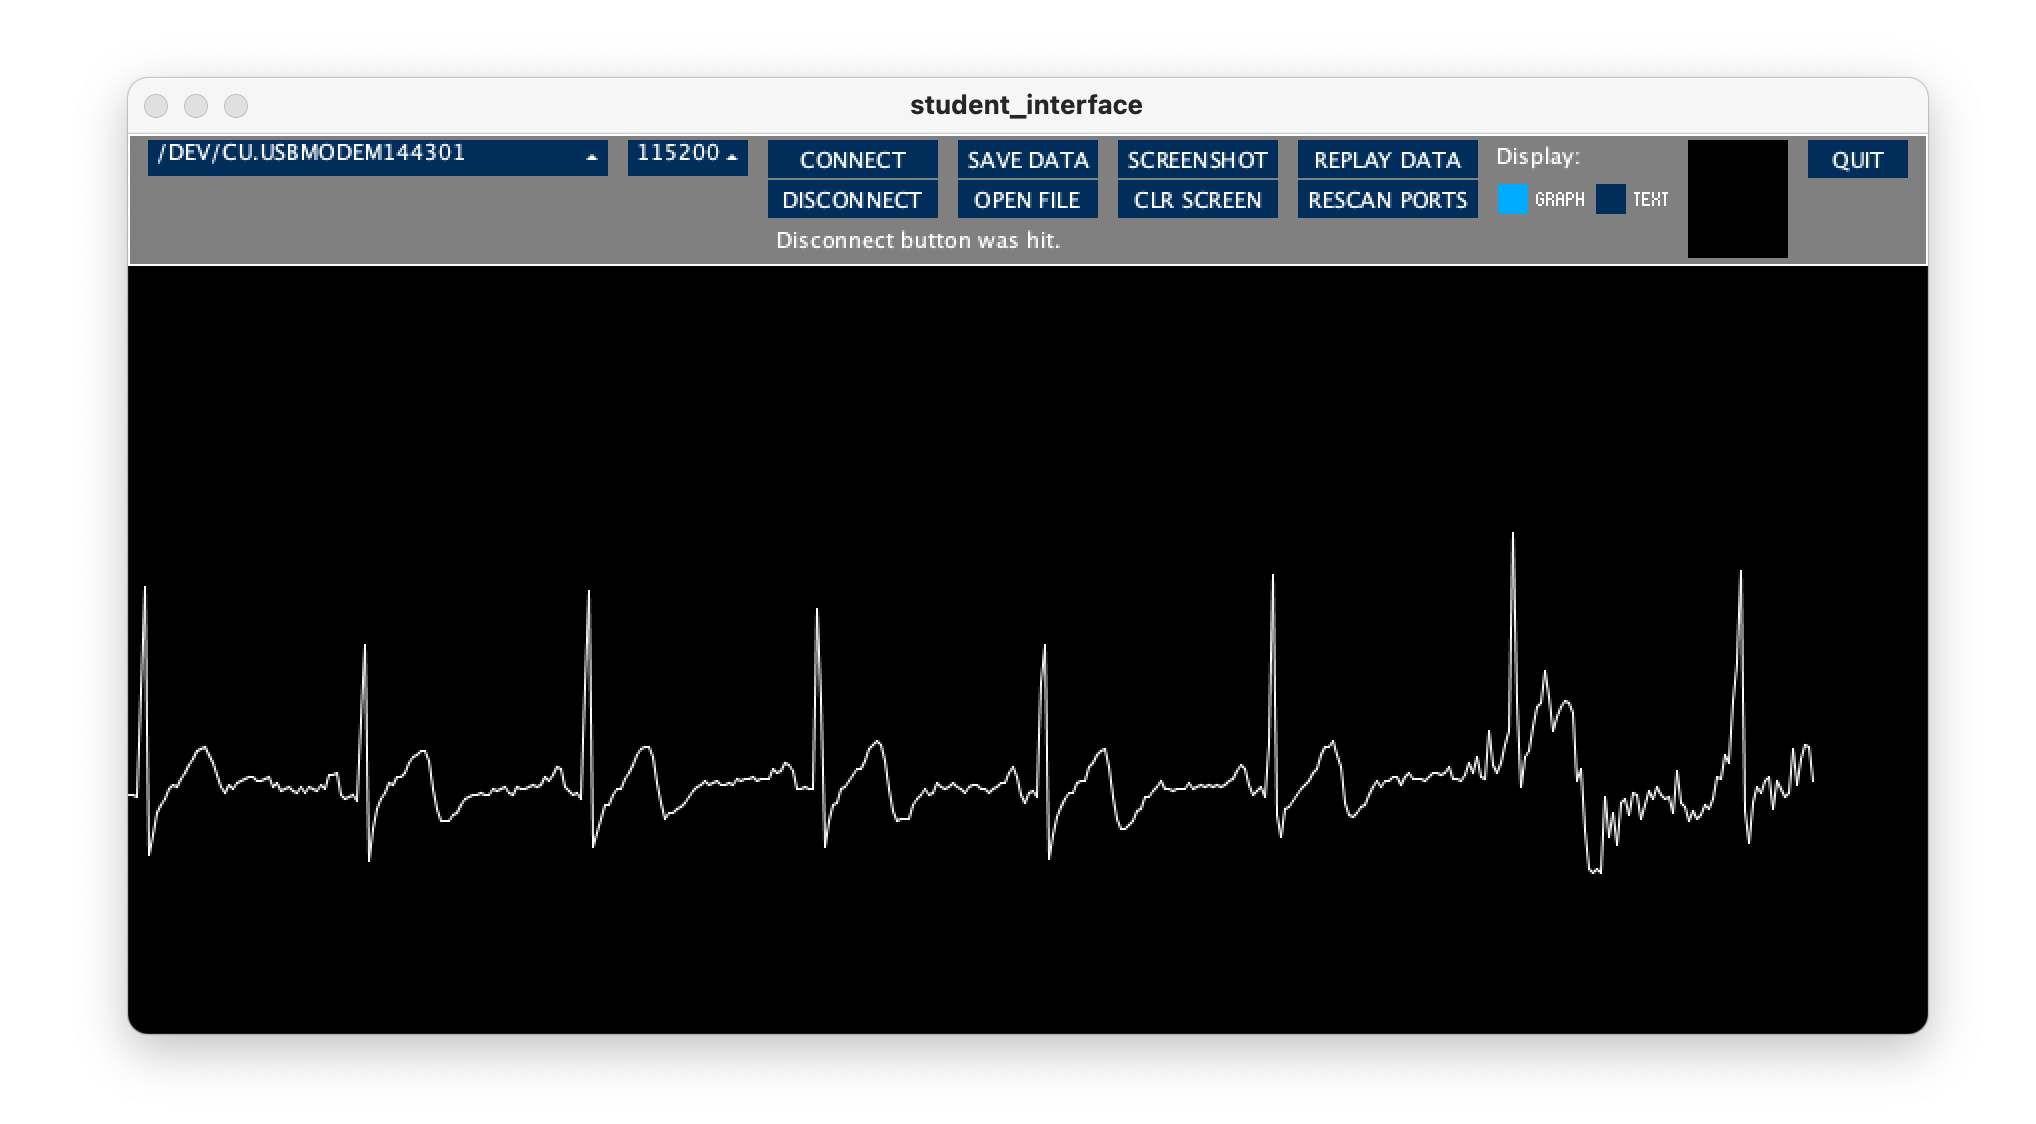
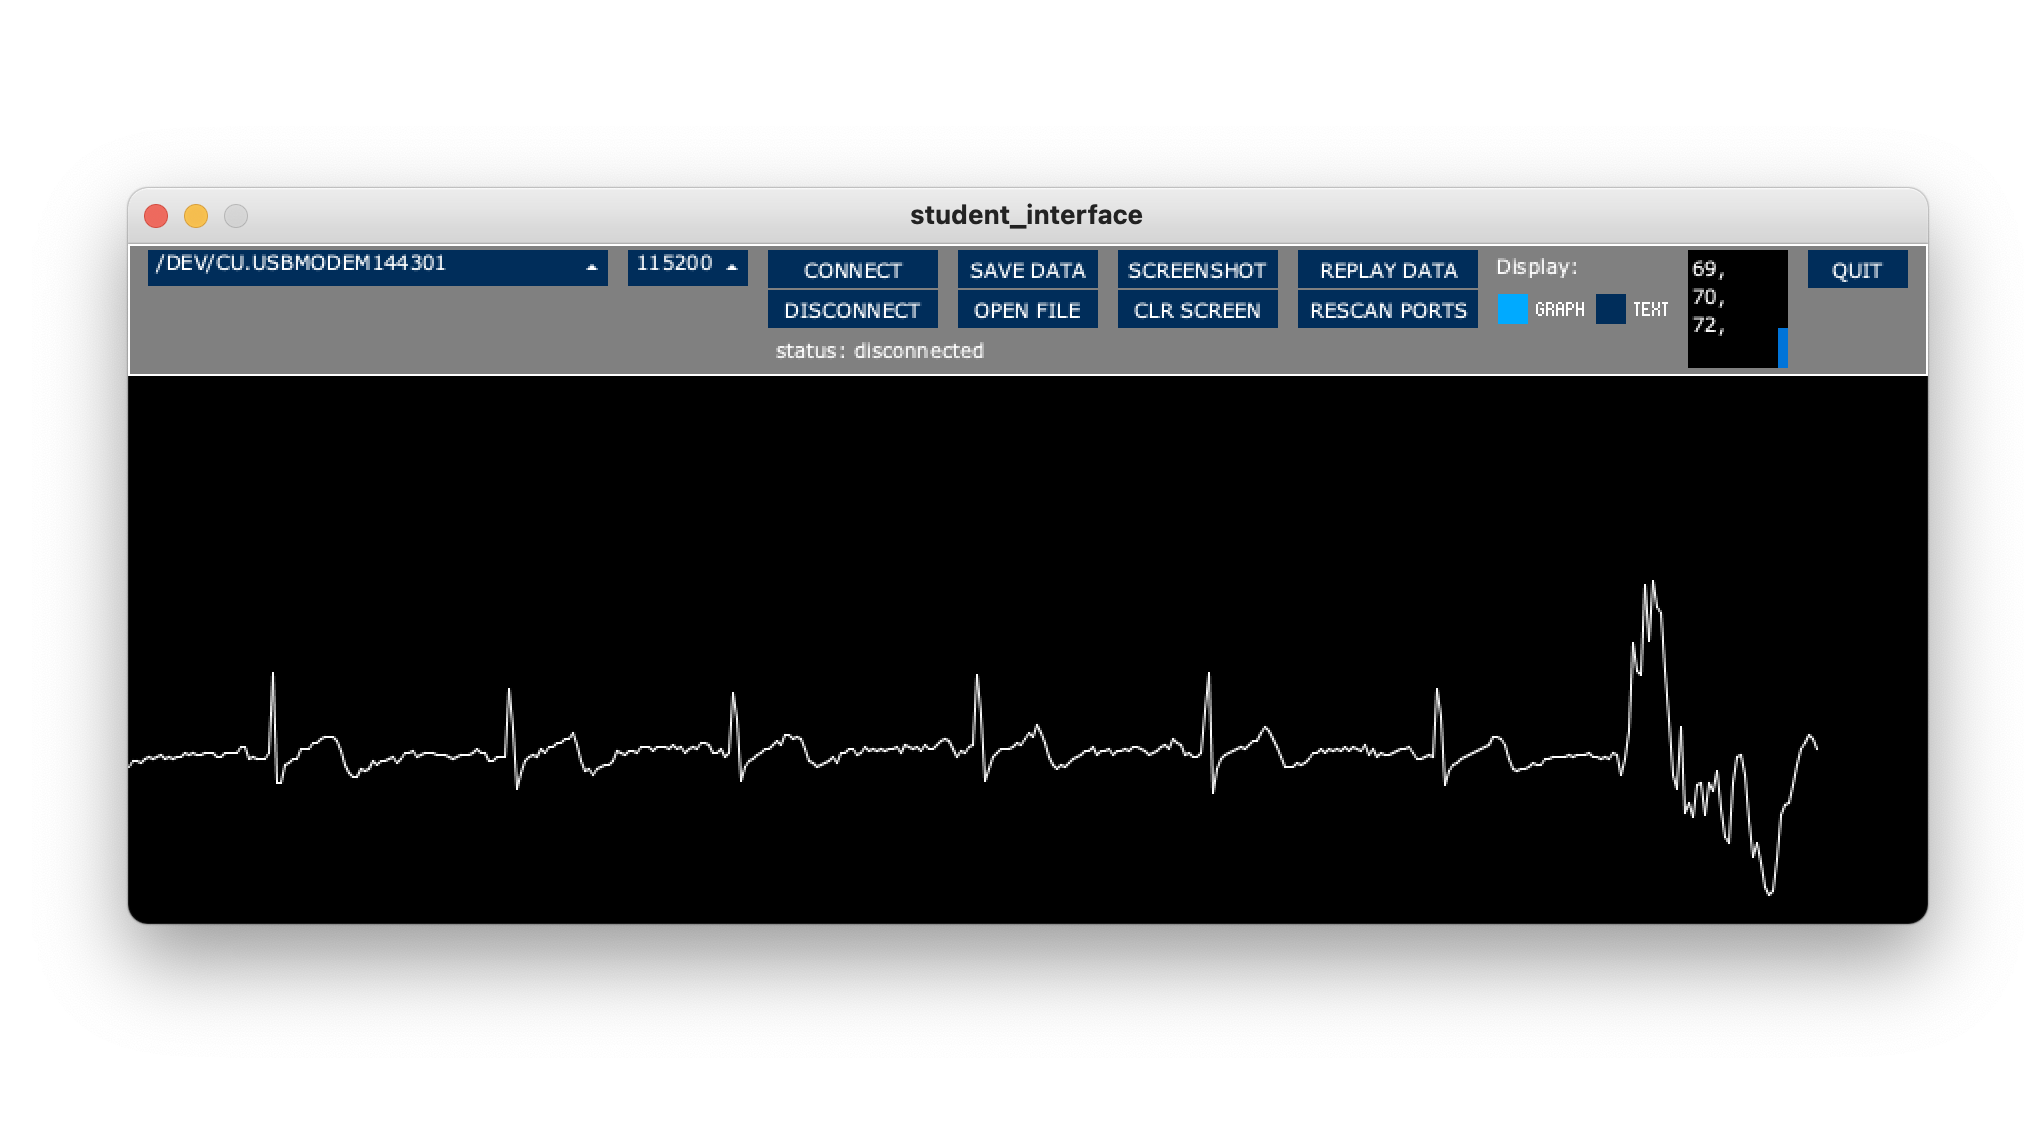
update image, reduce prescaler

diff --git a/src/main.cpp b/src/main.cpp
@@ -13,7 +13,7 @@ void setup() {
 
   sbi(ADCSRA, ADPS2);
   cbi(ADCSRA, ADPS1); 
-  cbi(ADCSRA, ADPS0); // prescaler = DIV16
+  sbi(ADCSRA, ADPS0); // clear for prescaler = DIV16, set for DIV32
 
   Serial.begin(115200);
 
